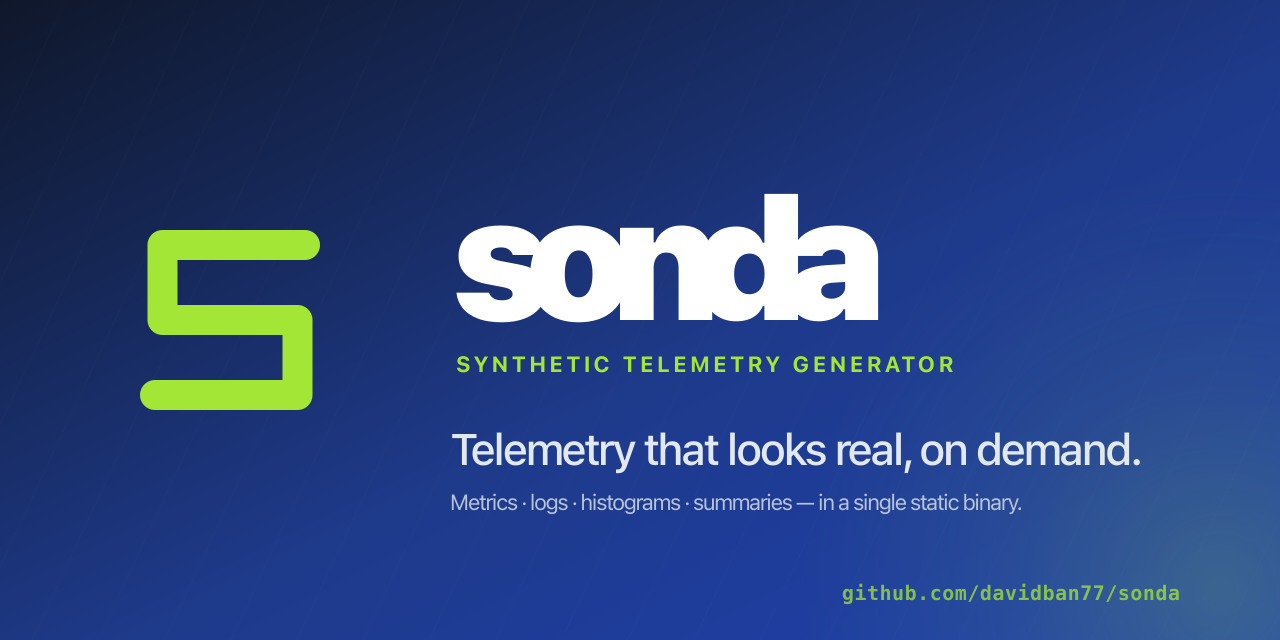
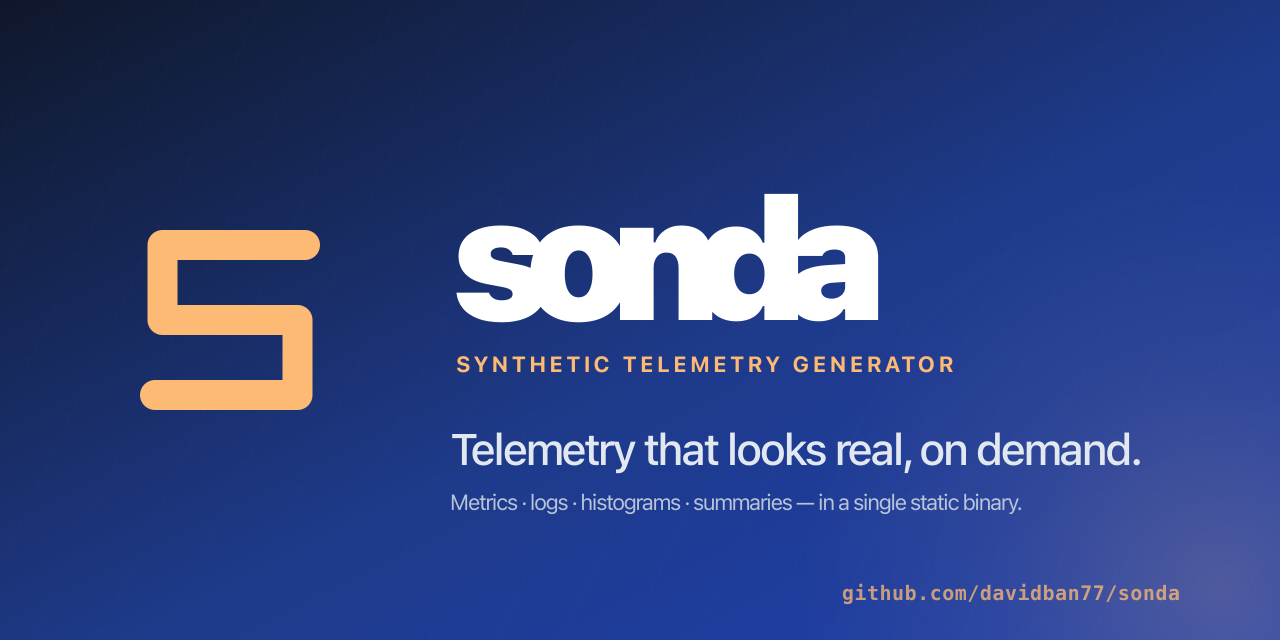
feat(docs): switch theme from Probe (lime) to Sunrise (coral) + warm dark-mode code surfaces (#369)
The lime accent worked, but on dark mode the saturated `#a3e635` against
near-black read as "CRT scope / video game" rather than "synthetic
telemetry generator." Coral is the same accent role at a calmer saturation:
warm, steady, pastel — closer to dawn light hitting deep ocean than to a
neon ping return.

## Palette swap

Same midnight-navy surface (slate-950 → blue-900 → blue-800). The accent
moves from lime to coral:

| Role | Lime (was)         | Coral (now)         |
|------|--------------------|---------------------|
| Light accent | `#84cc16` (lime-500) | `#f97316` (orange-500) |
| Light hover  | `#65a30d` (lime-600) | `#ea580c` (orange-600) |
| Dark accent  | `#a3e635` (lime-400) | `#fdba74` (orange-300) |
| Dark hover   | `#bef264` (lime-300) | `#fed7aa` (orange-200) |
| Ink-on-accent| `#0a1f0a` (dark green) | `#431407` (orange-950) |

Every brand-tinted surface flows through CSS custom properties, so the
swap touches one block; the explicit `rgba(…)` overrides in heroes,
shadows, tints, and chrome are updated to match.

## Code-surface refinements (the "video game" fix)

David flagged that the dark-mode code panels and inline code letters
read as game-y. Three changes, bundled with the palette swap:

1. **Inline code in dark mode** — text drops from saturated brand
   accent to soft pastel peach (`#fde4cd`); background tint switches
   from brand-coloured to warm-stone (`rgba(231, 229, 228, 0.08)`).
   Reads as "highlighted token," not "live signal."
[…]

Pull request: fix(docs): Sunrise palette (coral) + warm dark-mode code surfaces
## Why

The lime accent worked, but on dark mode the saturated `#a3e635` against near-black read as "CRT scope / video game" rather than "synthetic telemetry generator." Coral plays the same accent role at a calmer saturation — warm, steady, pastel — closer to dawn light hitting deep ocean than a neon ping return. Visually verified against a local serve before committing; the dark-mode "video game" feel is gone, the warm tone reads editorial.

## Palette swap

Same midnight-navy surface (`slate-950 → blue-900 → blue-800`). The accent moves from lime to coral:

| Role | Lime (was) | Coral (now) |
|---|---|---|
| Light accent | `#84cc16` (lime-500) | `#f97316` (orange-500) |
| Light hover | `#65a30d` (lime-600) | `#ea580c` (orange-600) |
| Dark accent | `#a3e635` (lime-400) | `#fdba74` (orange-300) |
| Dark hover | `#bef264` (lime-300) | `#fed7aa` (orange-200) |
| Ink-on-accent | `#0a1f0a` (dark green) | `#431407` (orange-950) |

Every brand-tinted surface flows through CSS custom properties, so the swap is principled — one block for the tokens, the explicit `rgba(…)` overrides in heroes/shadows/tints/chrome updated to match. Light mode stays exactly as is (David called out the blue/white as already where he wants it).

## Code-surface refinements (bundled — the "video game" fix)

Three changes that ride on top of the palette swap, all dark-mode only:
[…]

Changed region(s): [[0.0938, 0.3438, 0.25, 0.6562], [0.3438, 0.5312, 0.75, 0.5938], [0.6562, 0.9062, 0.9375, 0.9375]]

diff --git a/docs/site/docs/stylesheets/sonda.css b/docs/site/docs/stylesheets/sonda.css
@@ -3,8 +3,10 @@
  *
  * Sister to the Modern Network Observability hub and the AutoCon5 workshops:
  * shared layout DNA, Inter + JetBrains Mono. Sonda's own palette:
- *   Probe — midnight navy + sonar lime. The dominant surface is deep ocean
- *   (slate-900 → blue-900), the accent is the sonar-ping return (lime-400/500).
+ *   Sunrise — midnight navy + warm coral. The dominant surface is deep
+ *   ocean (slate-900 → blue-900); the accent is dawn light hitting the
+ *   surface (orange-500/300). Coral lowers saturation vs. the earlier
+ *   lime accent so dark-mode code surfaces read editorial, not console.
  * =========================================================================== */
 
 :root {
@@ -13,14 +15,14 @@
   --sonda-gradient-mid:   #1e3a8a;   /* blue-900   */
   --sonda-gradient-end:   #1e40af;   /* blue-800   */
 
-  /* Sonar ping — lime accent */
-  --sonda-accent:         #84cc16;   /* lime-500   */
-  --sonda-accent-bright:  #a3e635;   /* lime-400   */
-  --sonda-ink:            #0a1f0a;   /* deep green ink, sits on lime */
+  /* Sunrise — warm coral accent */
+  --sonda-accent:         #f97316;   /* orange-500 */
+  --sonda-accent-bright:  #fdba74;   /* orange-300 */
+  --sonda-ink:            #431407;   /* orange-950 — dark warm brown for text on coral */
 
   /* Hairline / surface tints */
   --sonda-tint-soft:      rgba(30, 64, 175, 0.06);
-  --sonda-tint-accent:    rgba(132, 204, 22, 0.10);
+  --sonda-tint-accent:    rgba(249, 115, 22, 0.10);
 }
 
 [data-md-color-scheme="slate"] {
@@ -28,22 +30,28 @@
   --sonda-gradient-mid:   #0c1326;   /* slate-900 cooler */
   --sonda-gradient-end:   #1e3a8a;   /* blue-900   */
 
-  --sonda-accent:         #a3e635;   /* lime-400 (brighter for dark) */
-  --sonda-accent-bright:  #bef264;   /* lime-300 */
-  --sonda-ink:            #0a1f0a;
+  --sonda-accent:         #fdba74;   /* orange-300 (lifted for dark) */
+  --sonda-accent-bright:  #fed7aa;   /* orange-200 (softer, less neon) */
+  --sonda-ink:            #431407;
 
-  --sonda-tint-soft:      rgba(163, 230, 53, 0.06);
-  --sonda-tint-accent:    rgba(163, 230, 53, 0.12);
+  --sonda-tint-soft:      rgba(253, 186, 116, 0.06);
+  --sonda-tint-accent:    rgba(253, 186, 116, 0.12);
+
+  /* Warm dark-mode code surfaces — drop the cool midnight grey for stone,
+   * which reads as "editorial dark" rather than "console output". Pairs
+   * naturally with the warm coral accent. */
+  --md-code-bg-color:     #1c1917;   /* stone-900 */
+  --md-code-fg-color:     #e7e5e4;   /* stone-200 */
 }
 
-/* Pull Material's accent toward our lime, in both schemes. */
+/* Pull Material's accent toward our coral, in both schemes. */
 [data-md-color-scheme="default"] {
-  --md-accent-fg-color: #65a30d;            /* lime-600 — slightly darker for AA on white */
-  --md-accent-fg-color--transparent: rgba(101, 163, 13, 0.10);
+  --md-accent-fg-color: #ea580c;            /* orange-600 — slightly darker for AA on white */
+  --md-accent-fg-color--transparent: rgba(234, 88, 12, 0.10);
 }
 [data-md-color-scheme="slate"] {
-  --md-accent-fg-color: #a3e635;
-  --md-accent-fg-color--transparent: rgba(163, 230, 53, 0.12);
+  --md-accent-fg-color: #fdba74;
+  --md-accent-fg-color--transparent: rgba(253, 186, 116, 0.12);
 }
 
 /* ---------- Hero (homepage) -------------------------------------------- */
@@ -61,13 +69,13 @@
   margin: 0 0 2.5rem;
   box-shadow:
     0 12px 32px rgba(15, 23, 42, 0.35),
-    0 0 0 1px rgba(163, 230, 53, 0.08) inset;
+    0 0 0 1px rgba(253, 186, 116, 0.08) inset;
   position: relative;
   overflow: hidden;
 }
 
-/* Sonar ping — two concentric lime rings in the bottom-right, soft and
- * subtle so they read as a probe return rather than decoration. */
+/* Sunrise glow — a warm radial in the bottom-right, soft and subtle so it
+ * reads as the first light on the horizon rather than decoration. */
 .sonda-hero::before {
   content: "";
   position: absolute;
@@ -78,15 +86,14 @@
   border-radius: 50%;
   background:
     radial-gradient(closest-side,
-      rgba(163, 230, 53, 0.16) 0%,
-      rgba(163, 230, 53, 0.10) 36%,
-      rgba(163, 230, 53, 0.04) 56%,
+      rgba(253, 186, 116, 0.18) 0%,
+      rgba(253, 186, 116, 0.10) 36%,
+      rgba(253, 186, 116, 0.04) 56%,
       transparent 70%);
   pointer-events: none;
 }
 
-/* Faint horizon scan-lines — quieter than v1, kept for the "synthetic
- * signal" texture nod. */
+/* Faint horizon scan-lines — kept for the "synthetic signal" texture nod. */
 .sonda-hero::after {
   content: "";
   position: absolute;
@@ -112,9 +119,9 @@
   letter-spacing: 0.18em;
   text-transform: uppercase;
   padding: 0.3rem 0.85rem 0.3rem 0.6rem;
-  background: rgba(163, 230, 53, 0.14);
+  background: rgba(253, 186, 116, 0.14);
   color: var(--sonda-accent-bright);
-  border: 1px solid rgba(163, 230, 53, 0.30);
+  border: 1px solid rgba(253, 186, 116, 0.30);
   border-radius: 999px;
   margin-bottom: 1.1rem;
 }
@@ -183,7 +190,7 @@
   color: var(--sonda-ink);
   border-color: var(--sonda-accent-bright);
   transform: translateY(-1px);
-  box-shadow: 0 6px 18px rgba(163, 230, 53, 0.30);
+  box-shadow: 0 6px 18px rgba(253, 186, 116, 0.30);
 }
 
 .sonda-hero__install {
@@ -193,7 +200,7 @@
   gap: 0.6rem;
   padding: 0.65rem 0.9rem;
   background: rgba(0, 0, 0, 0.35);
-  border: 1px solid rgba(163, 230, 53, 0.20);
+  border: 1px solid rgba(253, 186, 116, 0.20);
   border-radius: 8px;
   font-family: "JetBrains Mono", ui-monospace, monospace;
   font-size: 0.88rem;
@@ -215,7 +222,7 @@
   background: linear-gradient(
     100deg,
     rgba(30, 64, 175, 0.08) 0%,
-    rgba(132, 204, 22, 0.05) 100%
+    rgba(249, 115, 22, 0.05) 100%
   );
   border-left: 4px solid var(--sonda-gradient-mid);
   border-radius: 0 10px 10px 0;
@@ -227,7 +234,7 @@
   background: linear-gradient(
     100deg,
     rgba(30, 58, 138, 0.18) 0%,
-    rgba(163, 230, 53, 0.06) 100%
+    rgba(253, 186, 116, 0.06) 100%
   );
   border-left-color: var(--sonda-accent);
 }
@@ -324,8 +331,10 @@
   box-shadow: 0 4px 12px rgba(30, 64, 175, 0.14);
 }
 
+/* Dark-mode code-block hover shadow: depth only, no brand tint. The earlier
+ * tinted shadow made stacked code blocks feel like glowing scope traces. */
 [data-md-color-scheme="slate"] .md-typeset .highlight:hover pre > code {
-  box-shadow: 0 4px 12px rgba(163, 230, 53, 0.10);
+  box-shadow: 0 4px 14px rgba(0, 0, 0, 0.35);
 }
 
 .md-typeset blockquote {
@@ -346,7 +355,7 @@
 }
 
 [data-md-color-scheme="slate"] .md-typeset table:not([class]) th {
-  background: rgba(163, 230, 53, 0.06);
+  background: rgba(253, 186, 116, 0.06);
 }
 
 .md-typeset h1 {
@@ -366,6 +375,10 @@
   letter-spacing: -0.005em;
 }
 
+/* Inline `code` — light mode keeps the navy tint that David liked. Dark mode
+ * uses a soft warm-stone background + pastel peach text so the word reads
+ * as "highlighted token" rather than "live signal" — much less video-game
+ * than the earlier lime-on-near-black. */
 .md-typeset code {
   background: rgba(30, 64, 175, 0.08);
   color: #1e3a8a;
@@ -375,11 +388,11 @@
 }
 
 [data-md-color-scheme="slate"] .md-typeset code {
-  background: rgba(163, 230, 53, 0.10);
-  color: var(--sonda-accent-bright);
+  background: rgba(231, 229, 228, 0.08);     /* warm stone tint */
+  color: #fde4cd;                            /* pastel peach */
 }
 
-/* Tabbed code blocks — active label uses lime accent. */
+/* Tabbed code blocks — active label uses the brand accent. */
 .md-typeset .tabbed-labels > label { font-weight: 600; }
 
 .md-typeset .tabbed-labels > input:checked + label {
@@ -400,7 +413,7 @@
   background: var(--sonda-accent-bright) !important;
 }
 
-/* Links — lime on hover */
+/* Links — coral on hover. */
 .md-typeset a {
   text-decoration-thickness: 1px;
   text-underline-offset: 2px;
@@ -469,13 +482,13 @@
   .md-sidebar--secondary { margin-left: auto; }
 }
 
-/* ---------- Header & tabs (navy + lime) -------------------------------- */
+/* ---------- Header & tabs (navy + coral) ------------------------------- */
 
 .md-header {
   background-color: var(--sonda-gradient-start);
   box-shadow:
-    0 0 0 1px rgba(163, 230, 53, 0.06) inset,
-    0 1px 0 rgba(163, 230, 53, 0.10);
+    0 0 0 1px rgba(253, 186, 116, 0.06) inset,
+    0 1px 0 rgba(253, 186, 116, 0.10);
 }
 
 .md-tabs {
@@ -485,7 +498,7 @@
     var(--sonda-gradient-mid) 60%,
     var(--sonda-gradient-end) 100%
   );
-  border-bottom: 1px solid rgba(163, 230, 53, 0.18);
+  border-bottom: 1px solid rgba(253, 186, 116, 0.18);
 }
 
 .md-tabs__link {
@@ -555,14 +568,14 @@
   font-weight: 600;
   background: var(--sonda-tint-accent);
   color: var(--sonda-gradient-mid);
-  border: 1px solid rgba(132, 204, 22, 0.30);
+  border: 1px solid rgba(249, 115, 22, 0.30);
   border-radius: 999px;
   white-space: nowrap;
 }
 
 [data-md-color-scheme="slate"] .md-typeset .wire {
   color: var(--sonda-accent-bright);
-  border-color: rgba(163, 230, 53, 0.35);
+  border-color: rgba(253, 186, 116, 0.35);
 }
 
 /* ---------- Footer ----------------------------------------------------- */
@@ -573,7 +586,7 @@
 
 .md-footer-meta {
   background: var(--sonda-gradient-start);
-  border-top: 1px solid rgba(163, 230, 53, 0.10);
+  border-top: 1px solid rgba(253, 186, 116, 0.10);
 }
 
 /* ---------- Print: hide hero embellishments ---------------------------- */

diff --git a/README.md b/README.md
@@ -7,7 +7,7 @@
   <a href="https://crates.io/crates/sonda-core"><img alt="sonda-core on crates.io" src="https://img.shields.io/crates/v/sonda-core.svg?label=sonda-core&color=1e40af"></a>
   <a href="https://github.com/davidban77/sonda/actions/workflows/ci.yml"><img alt="CI" src="https://img.shields.io/github/actions/workflow/status/davidban77/sonda/ci.yml?branch=main&color=1e40af"></a>
   <a href="https://github.com/davidban77/sonda/blob/main/Cargo.toml"><img alt="MSRV" src="https://img.shields.io/badge/MSRV-1.75-3b82f6"></a>
-  <a href="https://github.com/davidban77/sonda/blob/main/LICENSE-MIT"><img alt="License" src="https://img.shields.io/crates/l/sonda.svg?color=84cc16"></a>
+  <a href="https://github.com/davidban77/sonda/blob/main/LICENSE-MIT"><img alt="License" src="https://img.shields.io/crates/l/sonda.svg?color=f97316"></a>
 </p>
 
 # Sonda

diff --git a/docs/site/docs/index.md b/docs/site/docs/index.md
@@ -31,7 +31,7 @@ hide:
 &nbsp;
 <a href="https://github.com/davidban77/sonda/blob/main/Cargo.toml"><img alt="MSRV" src="https://img.shields.io/badge/MSRV-1.75-3b82f6?style=for-the-badge"></a>
 &nbsp;
-<a href="https://github.com/davidban77/sonda/blob/main/LICENSE-MIT"><img alt="License" src="https://img.shields.io/crates/l/sonda.svg?style=for-the-badge&color=84cc16"></a>
+<a href="https://github.com/davidban77/sonda/blob/main/LICENSE-MIT"><img alt="License" src="https://img.shields.io/crates/l/sonda.svg?style=for-the-badge&color=f97316"></a>
 </p>
 
 ## A taste